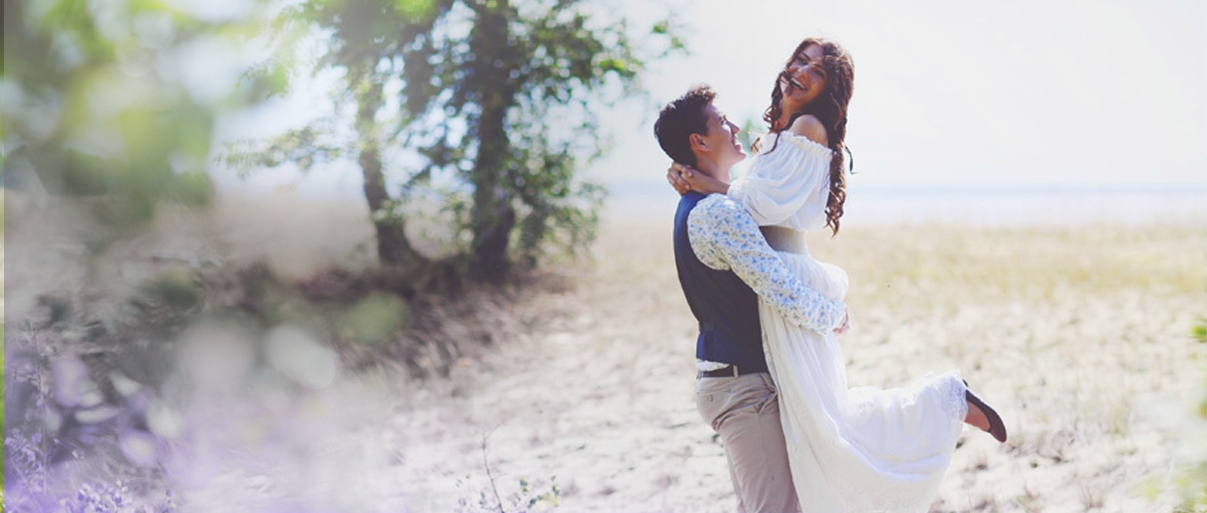
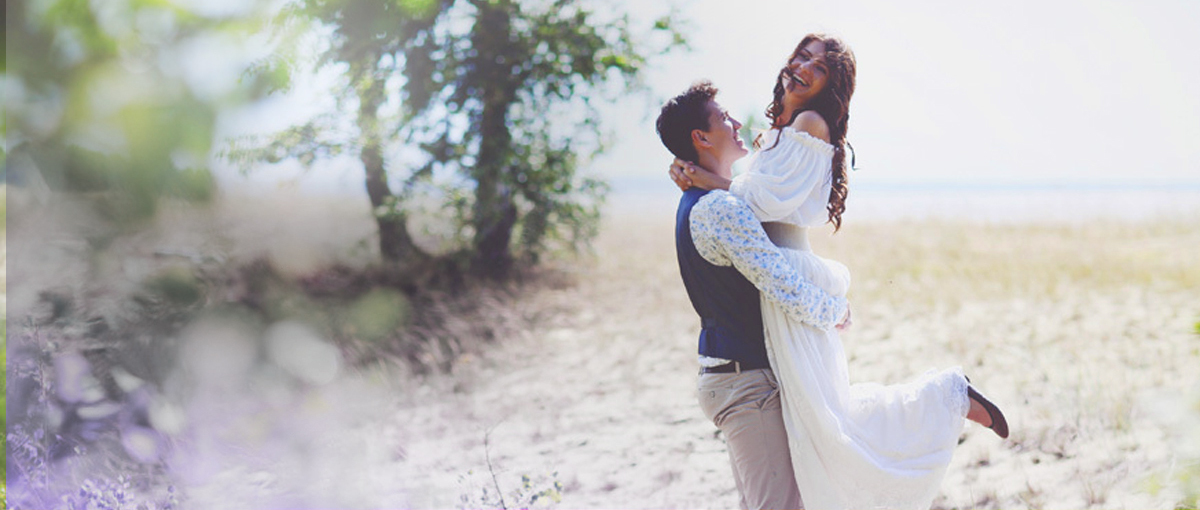
Вырезали картинки заново в самом лучшем качестве, но качество не ощущается

diff --git a/source/css/style.css b/source/css/style.css
@@ -1475,7 +1475,7 @@ body:after {
 }
 
 .presentation {
-  background-image: url("../img/works/main-picture__img--works.png");
+  background-image: url("../img/works/main-picture__img--works.jpg");
   background-size: 100%;
   background-position: center;
   background-repeat: no-repeat;

diff --git a/source/scss/blocks/common/presentation.scss b/source/scss/blocks/common/presentation.scss
@@ -1,5 +1,5 @@
 .presentation {
-    background-image: url('../img/works/main-picture__img--works.png');
+    background-image: url('../img/works/main-picture__img--works.jpg');
     background-size: 100%;
     background-position: center;
     background-repeat: no-repeat;
